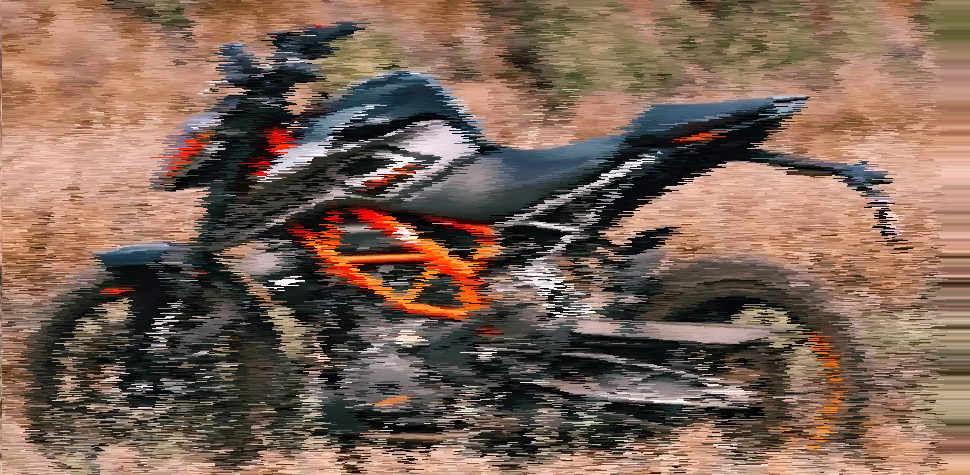
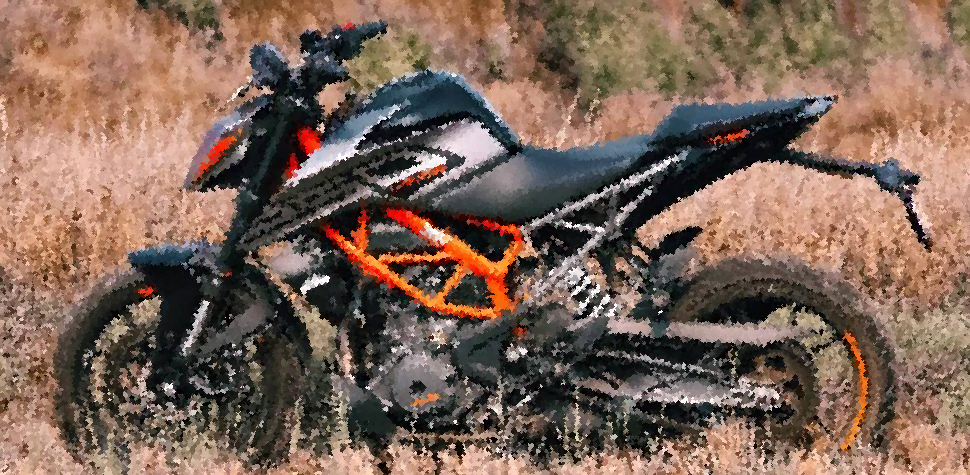
more progress

diff --git a/chapter2/question-2.7.py b/chapter2/question-2.7.py
@@ -54,16 +54,47 @@ class Im():
         while i < p:
             rx = math.floor(random.random() * self.size[0])
             ry = math.floor(random.random() * self.size[1])
-            left_pixel = rx - 1
-            if (left_pixel - 1 > 0):
-                self.pixels[left_pixel, ry] = self.pixels[rx, ry]
+            left_pixel = (rx - 1, ry)
+            if (left_pixel[0] - 1 > 0):
+                self.pixels[left_pixel] = self.pixels[rx, ry]
             else:
                 continue
             i += 1
 
+    def copyRandomNerestNeighbor(self, percentage:int) -> None:
+        """
+        selects a random pixel and copies it to the left, right, top and bottom
+        a percentage number of times. You can go over 100 percent
+        """
+        i = 0
+        p = math.floor(self.number_of_pixels * (percentage / 100))
+        while i < p:
+            x = math.floor(random.random() * self.size[0])
+            y = math.floor(random.random() * self.size[1])
+            pixel = self.pixels[x, y]
+            neighbors = {
+                    "left":  (x - 1, y),
+                    "top":  (x, y + 1),
+                    "right":  (x + 1, y),
+                    "bottom":  (x, y - 1)
+            }
+            for key in neighbors.keys():
+                n = neighbors[key]
+                x_in_bounds = (n[0] >= 0 and 
+                               n[0] < self.size[0])
+                y_in_bounds = (n[1] >= 0 and 
+                               n[1] < self.size[1])
+                if  x_in_bounds and y_in_bounds:
+                    self.pixels[n] = pixel
+                else:
+                    continue
+            i += 1
+
+
 im = Im("bike.jpg")
 # im.fillRandomPixels(300, (0, 0, 0, 255))
 # im.fillPercentage(20, (0, 0, 0, 255))
-im.copyRandomNeighborLeft(3000)
+# im.copyRandomNeighborLeft(3000)
+im.copyRandomNerestNeighbor(120)
 im.displayImage("out.png")
 
